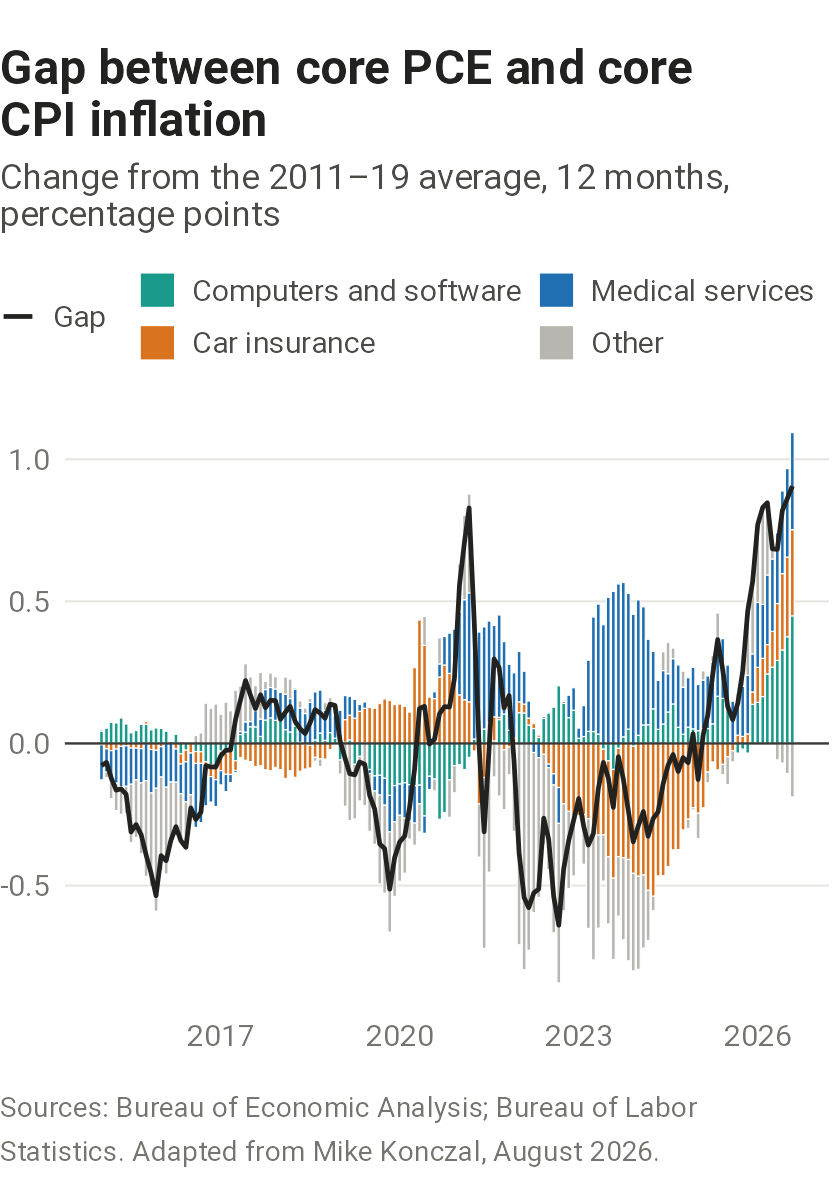
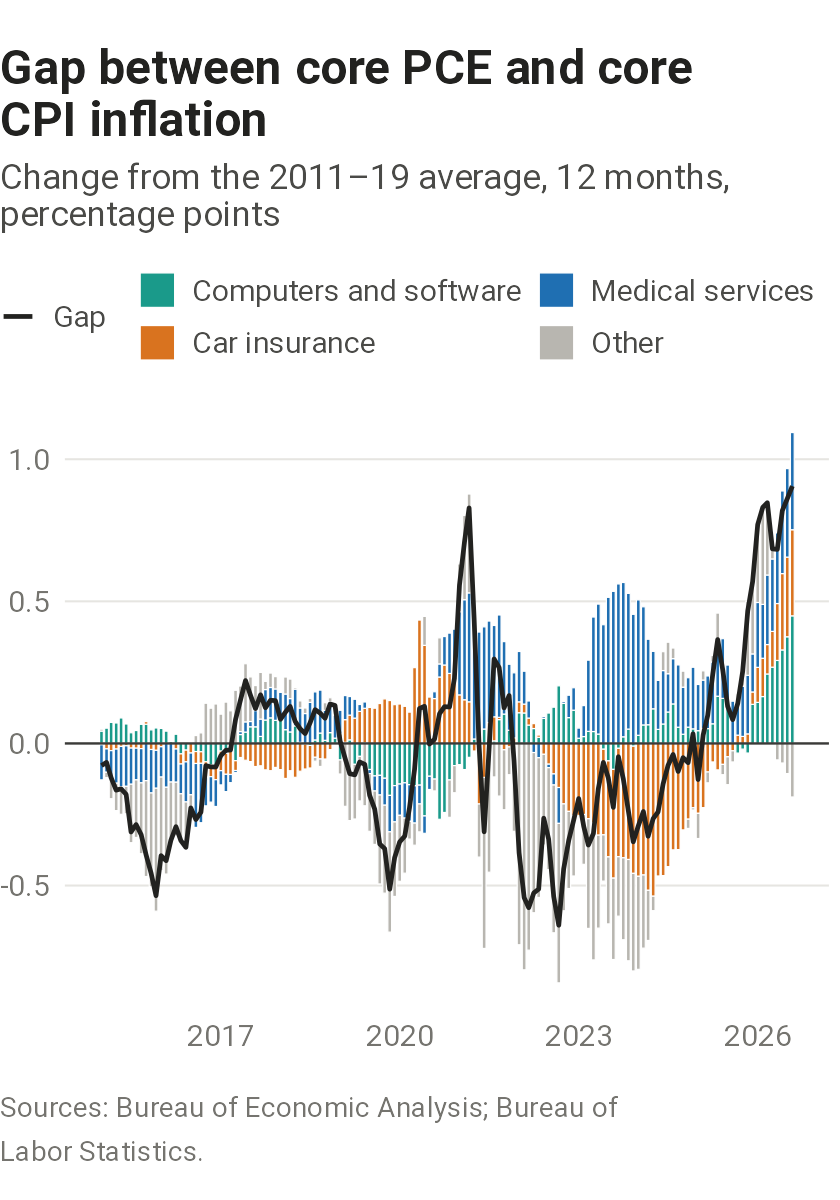
Drop the credit line from the PCE-CPI chart and soften credit rules
The chart's item breakdown is its own; the spec records that the
comparison and the 2011-19 period come from Konczal, and reproduce.R
still checks his figures.

CLAUDE.md: a chart that starts from someone else's analysis is checked
against their numbers where possible, a mismatch is reported rather than
blocking, departures are recorded in the decision log, and credit goes on
charts that reproduce or closely follow another analysis. STYLE.md's
source-line rules match.

Claude-Session: https://claude.ai/code/session_016BKK928wjde7Pakb8pzNSk

Changed region(s): [[0.0, 0.9558, 0.681, 0.9867], [0.7119, 0.925, 0.7738, 0.9867], [0.7738, 0.8942, 0.8048, 0.925]]

diff --git a/CLAUDE.md b/CLAUDE.md
@@ -22,7 +22,7 @@ Claude still writes what belongs to the chart itself (title, subtitle, legend, s
 
 - **The AI economy**: `charts/ai-investment-gdp/`, `charts/ai-adoption/`, `charts/productivity-decomposition/`.
 - **Interest rates**: `charts/yield-decomposition/`, `charts/yield-rise-by-model/`, `charts/duration-supply/`. Candidate: the 10-year yield split into inflation-protected yield and breakeven inflation, with the 2-year yield.
-- **Inflation**, started September 2026: `charts/inflation-measures/` (measures of underlying inflation over time, and a table of their latest rates over 12, 6, 3, and 1 months), `charts/inflation-1970s/` (today set against the 1970s, with the 571-month shift of the widely shared version), `charts/inflation-breadth/` (reproduces Warsh's share of PCE categories rising faster than 3 percent), `charts/pce-cpi-gap/` (the gap between core PCE and core CPI by item, as changes from the 2011–19 average, adapted from Konczal), and `charts/software-electricity-prices/` (contributions of software and electricity prices, adapted from the FEDS Note on software prices). Planned: inflation expectations. Release-day tools (PCE implied by CPI and PPI, surprises) come later; surprises need a public benchmark, such as the Cleveland Fed nowcast, since consensus forecasts are proprietary.
+- **Inflation**, started September 2026: `charts/inflation-measures/` (measures of underlying inflation over time, and a table of their latest rates over 12, 6, 3, and 1 months), `charts/inflation-1970s/` (today set against the 1970s, with the 571-month shift of the widely shared version), `charts/inflation-breadth/` (reproduces Warsh's share of PCE categories rising faster than 3 percent), `charts/pce-cpi-gap/` (the gap between core PCE and core CPI by item, as changes from the 2011–19 average), and `charts/software-electricity-prices/` (contributions of software and electricity prices, adapted from the FEDS Note on software prices). Planned: inflation expectations. Release-day tools (PCE implied by CPI and PPI, surprises) come later; surprises need a public benchmark, such as the Cleveland Fed nowcast, since consensus forecasts are proprietary.
 - **Trade**, started September 2026, built on the Census trade store: `charts/effective-tariff-rate/` (the collected tariff rate, following the Fed Board's April 2026 FEDS Note, and the rate at the 2024 mix of products and countries) and `charts/goods-balance/` (the goods balance by Census product category: computers, semiconductors and telecom equipment, pharmaceuticals, gold, and the rest). Planned: imports from China as reported by the United States and by China, with partner shares. Candidate: imports by size of tariff increase.
 
 ## Chart candidates
@@ -51,12 +51,12 @@ These are the analyses I've been considering. Treat them as starting points. Ver
 
 - Start with one chart and get it right before building a framework around it.
 - Don't commit or push until we've discussed the change and I've said to. Make edits locally, show me the result, and wait. One commit when we agree beats several along the way.
-- When maintaining someone else's analysis, reproduce their published numbers for their original period before extending it. If you can't match them, stop and tell me what differs.
+- When a chart starts from someone else's analysis, check it against their published numbers where you can, and tell me what differs. A mismatch is worth knowing, not a reason to stop.
 - Reproduction checks are for building a chart. Once it's set up, refreshes and revisions don't need `reproduce.R` rerun, and a later mismatch from revised data isn't a problem to fix.
-- Measuring the right thing matters more than matching the original, but replication is what makes a chart defensible, so deviate only with confidence. A deviation needs a reason grounded in data, not preference, and a consistency check against an independent source that the new method passes. Report how much it moves the result, keep `reproduce.R` matching the original under their method, record the deviation in the spec's decision log, and say on the chart that the method is adapted.
+- Measuring the right thing matters more than matching the original. When a chart departs from the work it started from, record why in the spec's decision log.
 - Each chart should have a written spec: sources, series identifiers, transformations, vintage handling, and known breaks. The spec is what makes refreshes reliable and reviewable.
 - Refreshes are automatic (see Publishing). What a refresh changed, and what it might mean, goes to me privately by email from the Claude Routine, never into the repo.
-- Credit and link the original analysis on every chart built from someone else's work.
+- Credit and link the original analysis when a chart reproduces or closely follows someone else's work. A chart that only borrows an idea or a comparison period doesn't need a credit line; I decide the close calls.
 - Prefer boring, durable choices for data and hosting. This is a side project and needs to survive long gaps between sessions.
 
 ## Constraints

diff --git a/charts/pce-cpi-gap/spec.md b/charts/pce-cpi-gap/spec.md
@@ -6,7 +6,7 @@ Status: built in R from BEA's monthly NIPA files and BLS's CPI flat files and re
 
 How far is the gap between core PCE and core CPI inflation from its pre-pandemic average, and which items account for the difference?
 
-## Original analysis
+## Related work
 
 Mike Konczal, "Is the Actual Inflation Rate PCE and High or CPI and Low?", August 28, 2026. https://newsletter.mikekonczal.com/p/is-the-actual-inflation-rate-pce. Charts the 12-month core CPI and core PCE rates and their difference back to 1960. Quotes core PCE 3.34 and core CPI 2.47 percent over the 12 months to July 2026, a 0.87 point difference; an average of 0.34 point with CPI higher from 2011 to 2019; portfolio management accounting for about 0.31 point; and software weights of 1.10 percent in PCE against 0.03 percent in CPI. Cites BEA table 9.1U for the full reconciliation.
 
@@ -63,5 +63,6 @@ Konczal's gap differs in the second decimal because he subtracts rounded rates. 
 ## Decision log
 
 - 2026-09-27: Two lines, the gap and the gap excluding portfolio management and software. Starts in 2011 to include Konczal's 2011 to 2019 comparison period.
-- 2026-10-01: Replaced by item contributions to the gap, as changes from the 2011–19 average. After BEA's annual update, portfolio management explained little of the gap's rise. A ranking of items by their change from the 2011–19 average put car insurance, computers, medical services, and software at the top; housing and prescription drugs moved the other way. Computers and software are combined, matching the productivity chart's label. Built from BLS's published weights rather than estimated ones. The method is adapted from Konczal, and the chart says so.
+- 2026-10-01: Replaced by item contributions to the gap, as changes from the 2011–19 average. After BEA's annual update, portfolio management explained little of the gap's rise. A ranking of items by their change from the 2011–19 average put car insurance, computers, medical services, and software at the top; housing and prescription drugs moved the other way. Computers and software are combined, matching the productivity chart's label. Built from BLS's published weights rather than estimated ones.
+- 2026-10-01: No credit line on the chart. The comparison and the 2011–19 period come from Konczal, but the item breakdown is the chart's own; `reproduce.R` still checks his figures.
 - 2026-10-01: Stacked bars of the parts with a line for the gap, from 2015. Bars are 75 percent of a month wide, and Other, in gray, stacks outside the colored parts.

diff --git a/STYLE.md b/STYLE.md
@@ -28,7 +28,7 @@ The image has four levels of text, and nothing else competes with them. Everythi
 - **No acronyms in anything a reader sees**: titles, labels, legends, notes. Spell out total factor productivity, not TFP. The exceptions are ones any reader knows, such as GDP and AI.
 - **Units go in the subtitle** and in any label that shows a value. No axis titles when the subtitle already gives the units.
 - **Legend labels are short**, two or three words. Anything a short label leaves out goes in the notes.
-- **The source line in the image is short**: the data's provider and the original analysis by author and outlet, so an image saved or shared on its own still says where it came from. No data end date when the chart already shows it; that goes in the notes on the page.
+- **The source line in the image is short**: the data's provider and, when the chart credits one, the original analysis by author and outlet, so an image saved or shared on its own still says where it came from. No data end date when the chart already shows it; that goes in the notes on the page.
 - Sentence case everywhere. No rotated axis labels. Drop trailing zeros from numbers.
 
 ## Text around the chart
@@ -38,7 +38,7 @@ Write for a busy senior reader, like a staff economist briefing the Treasury sec
 - **One paragraph above the chart, written by Nicholas.** Anything a reader must know to read the chart correctly goes here, not in the notes.
 - The paragraph is written directly in the topic page, so it doesn't change on refresh.
 - **Notes on the sources page are one-line definitions of the legend items**, in legend order, passed to `write_chart_notes()` as "**Label:** definition." and shown as the term beside its definition. No caveats, methods, or analysis; those go in the spec.
-- **The source line is short**: the providers, the data's end date, and a link to the original analysis. Smaller and lighter than the notes. It ends with the data download link.
+- **The source line is short**: the providers, the data's end date, and a link to any original analysis the chart credits. Smaller and lighter than the notes. It ends with the data download link.
 - `write_chart_notes()` writes the definitions and source to `output/<chart>-notes.md`. The topic page links to the chart's entry on `sources.qmd`, which includes the notes file under a heading whose id is the chart's folder name. Styles are `.chart-notes` and `.chart-source` in `styles.css`.
 
 ## Color

diff --git a/charts/pce-cpi-gap/output/pce-cpi-gap-notes.md b/charts/pce-cpi-gap/output/pce-cpi-gap-notes.md
@@ -19,7 +19,7 @@ Change from the 2011–19 average
 :   Each series, and each item's contribution to core PCE minus its contribution to core CPI, less its average from 2011 to 2019.
 
 ::: {.chart-source}
-Sources: Bureau of Economic Analysis, through August 2026; Bureau of Labor Statistics, with CPI weights from its [relative importance tables](https://www.bls.gov/cpi/tables/relative-importance/home.htm). Adapted from Mike Konczal, ["Is the Actual Inflation Rate PCE and High or CPI and Low?"](https://newsletter.mikekonczal.com/p/is-the-actual-inflation-rate-pce), August 28, 2026. [Download the data (CSV)](charts/pce-cpi-gap/output/pce-cpi-gap.csv)
+Sources: Bureau of Economic Analysis, through August 2026; Bureau of Labor Statistics, with CPI weights from its [relative importance tables](https://www.bls.gov/cpi/tables/relative-importance/home.htm). [Download the data (CSV)](charts/pce-cpi-gap/output/pce-cpi-gap.csv)
 :::
 
 :::
